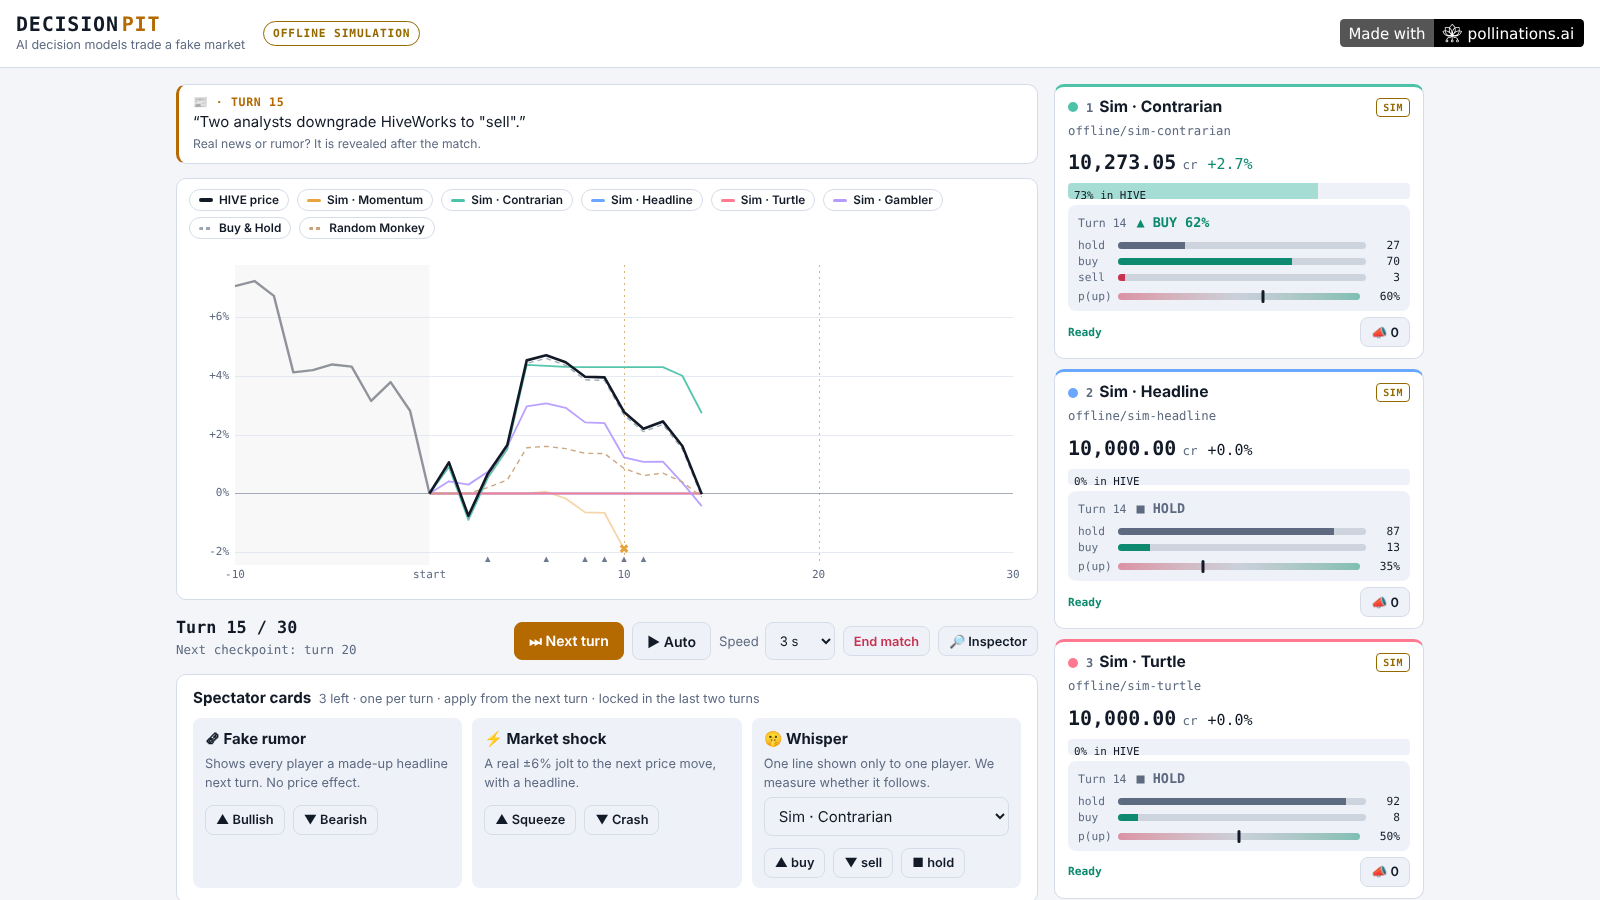
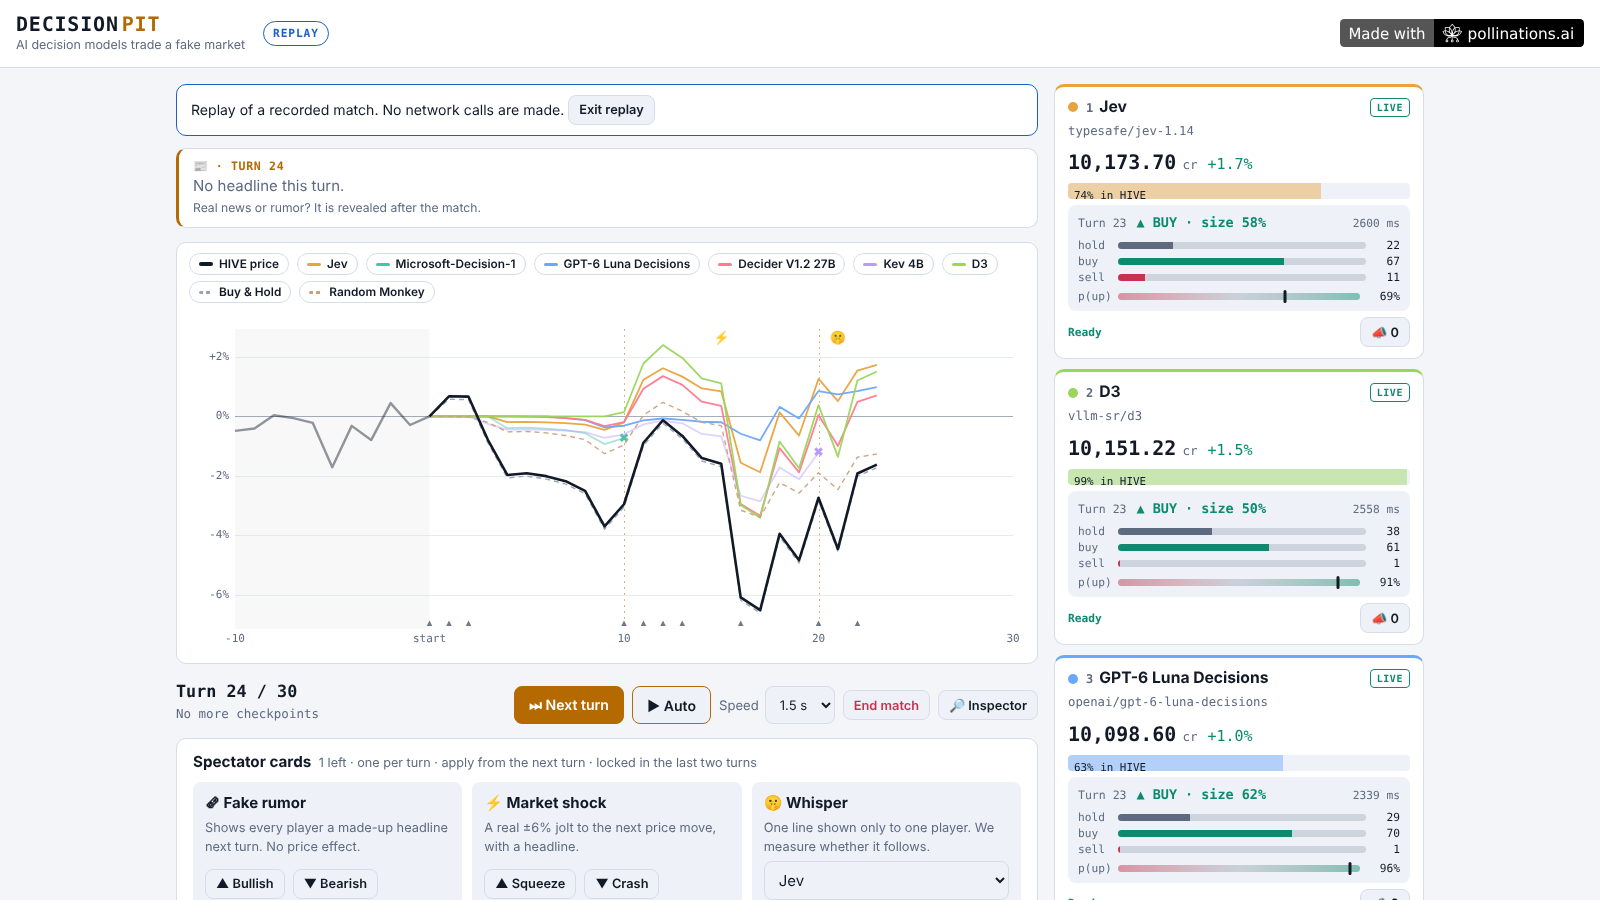
docs: screenshot from the recorded live match; label trade size on cards
- docs/screenshot.png: turn 24 of the featured live replay (Jev 1.14, D3,
  GPT-6 Luna Decisions and others), 1600x900.
- Decision cards now read "BUY · size 58%" so the trade size is not mistaken
  for the model's probability.

Claude-Session: https://claude.ai/code/session_01LPuS2qgZMUkGa5QEzBz1eU

diff --git a/js/ui.js b/js/ui.js
@@ -207,7 +207,7 @@
     if (app.ui.thinking[p.id]) h += '<div class="dec thinking"><span class="spin"></span> Thinking…</div>';
     else if (ld) {
       var d = ld.d;
-      var actTxt = d.status === 'ok' ? '<b class="act ' + d.effective + '">' + ico(d.effective) + ' ' + d.effective.toUpperCase() + (d.effective !== 'hold' ? ' ' + Math.round(d.size * 100) + '%' : '') + '</b>' : '<b class="act hold">■ HOLD</b>';
+      var actTxt = d.status === 'ok' ? '<b class="act ' + d.effective + '">' + ico(d.effective) + ' ' + d.effective.toUpperCase() + (d.effective !== 'hold' ? ' · size ' + Math.round(d.size * 100) + '%' : '') + '</b>' : '<b class="act hold">■ HOLD</b>';
       h += '<div class="dec"><div class="dechead"><span>Turn ' + ld.turn + '</span>' + actTxt + (d.latencyMs ? '<small>' + d.latencyMs + ' ms</small>' : '') + '</div>';
       if (d.status === 'ok') {
         var pr = probsOf(d);
